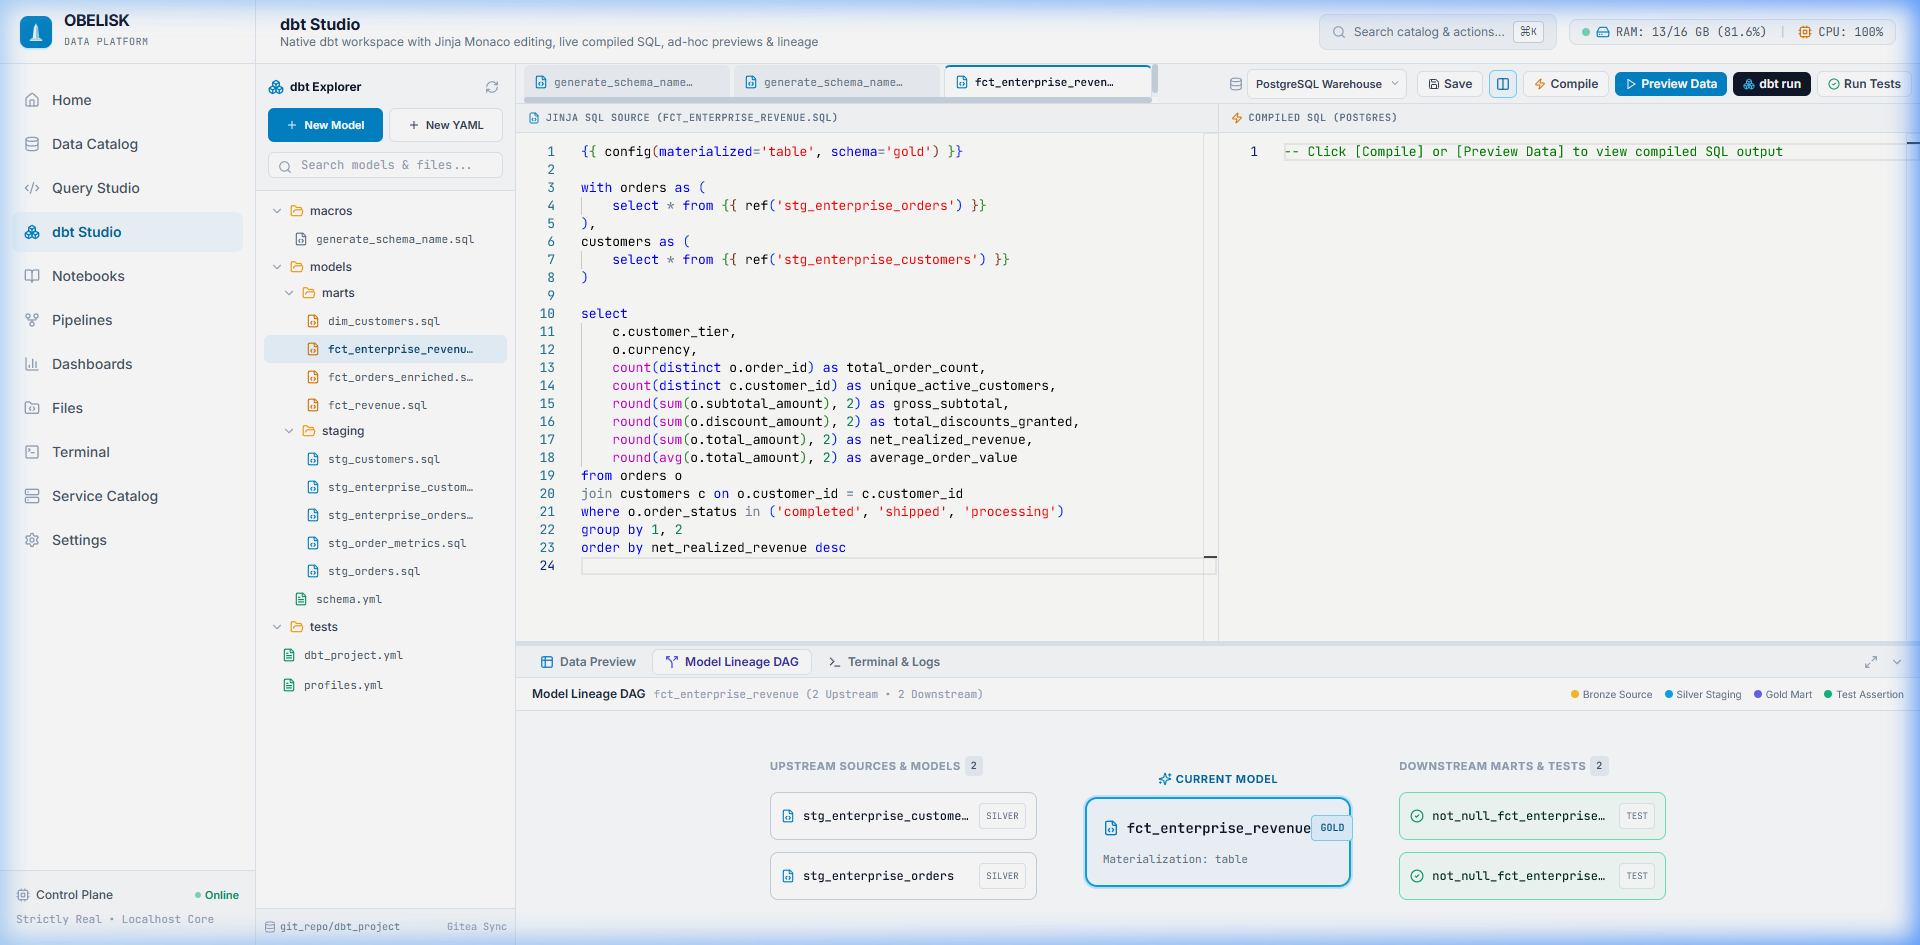
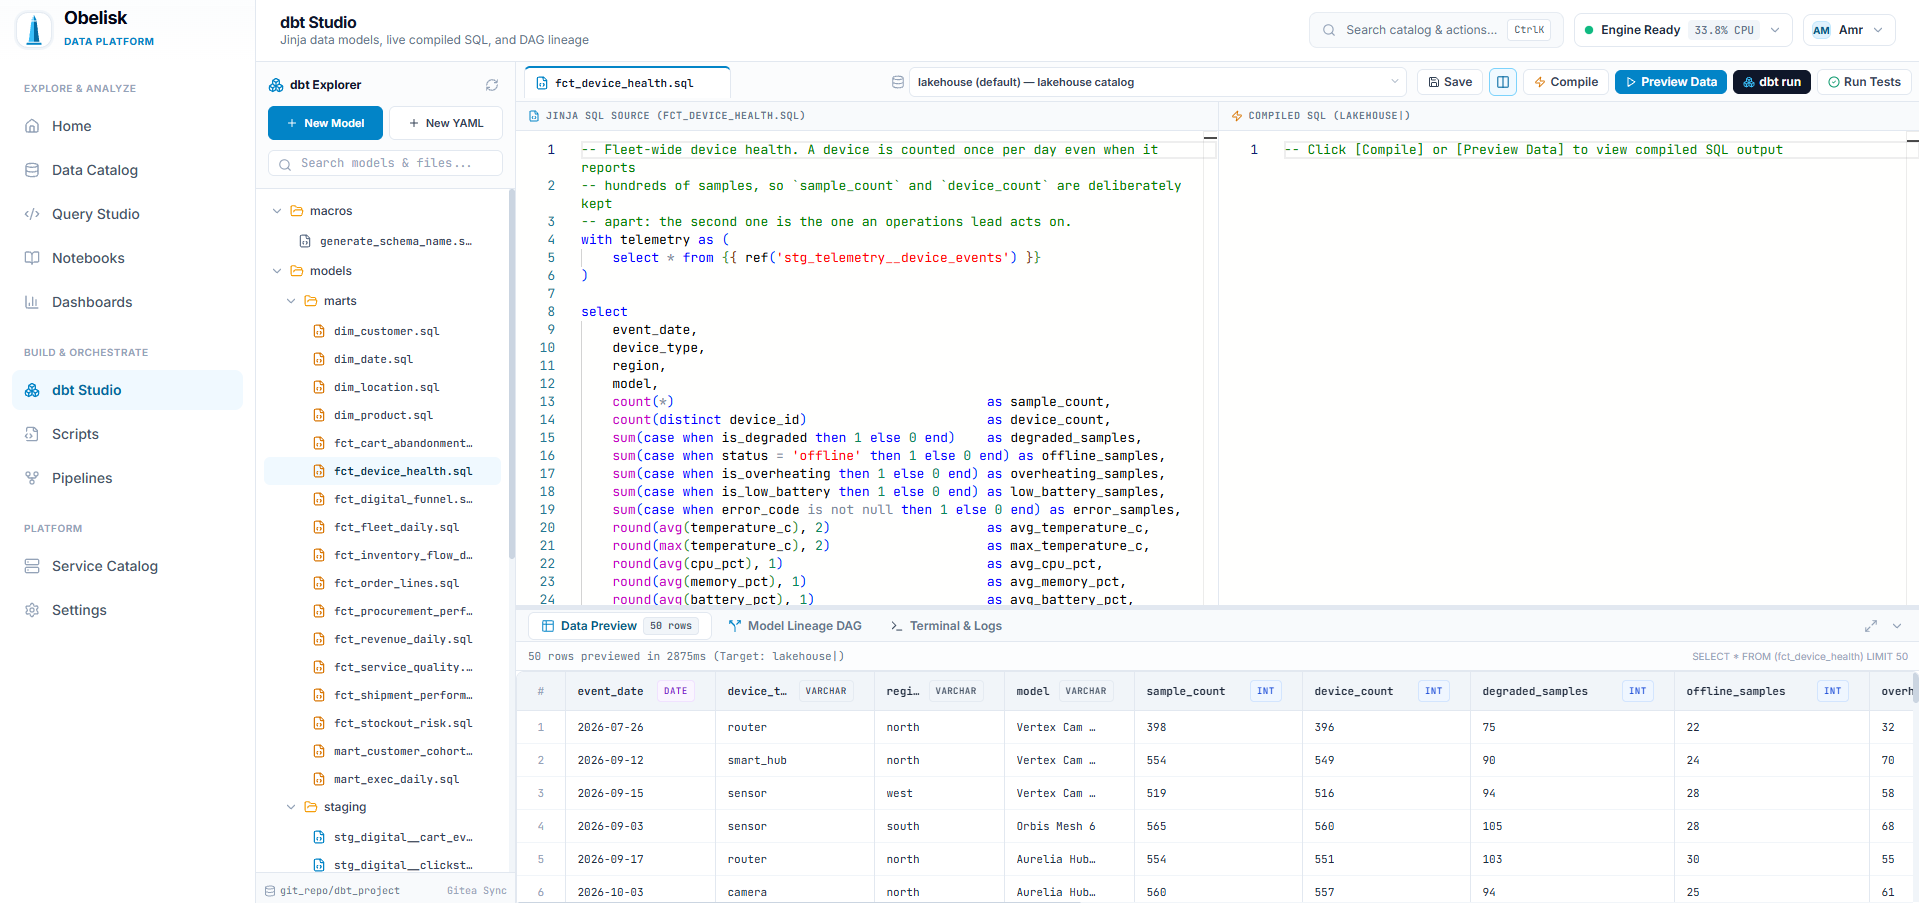
updated readme

Changed region(s): [[0.0, 0.0, 1.0, 1.0], [0.6764, 0.7442, 0.7071, 0.7752], [0.5534, 0.7442, 0.5842, 0.7752]]

diff --git a/README.md b/README.md
@@ -13,7 +13,7 @@ Run a complete modern data stack on a workstation, a single server, or an air-ga
 [![React 18](https://img.shields.io/badge/Frontend-React%2018%20%2B%20Tailwind-61DAFB?logo=react&logoColor=black)](https://react.dev/)
 
 <p align="center">
-  <img src="docs/images/data_catalog.png" alt="Obelisk workspace: the data catalog with lakehouse folders and connected Postgres, MongoDB and Supabase sources, a 50-row Parquet preview, and the full tool rail -- plus the query studio, dbt studio, notebooks, pipelines, service catalog and terminal" width="100%">
+  <img src="docs/images/homepage.png" alt="Obelisk workspace: workspace overview, active pipelines, managed data services, and host resource telemetry" width="100%">
 </p>
 
 </div>
@@ -77,34 +77,54 @@ Postgres on `:5434` and MongoDB on `:27018`.
 tables in as Snappy Parquet with `snapshot`, `incremental` (watermark) or `upsert`
 (primary key) semantics. Attachable sources (Postgres, MySQL, MariaDB, and MongoDB) can also be queried live, uncopied.
 
-**Query Studio.** DuckDB in-process, CSV and Parquet export, a virtualized grid, and
-federated joins in one statement:
+**Query Studio.** DuckDB in-process analytical SQL, CSV and Parquet export, a virtualized grid, and
+cross-source federated joins in a single statement:
 
 ```sql
-SELECT c.region, count(*) AS events, round(sum(e.revenue), 2) AS revenue
-FROM pg_enterprise_warehouse.public.e2e_customers c
-JOIN bronze.e2e_clickstream e ON e.customer_id = c.customer_id
-GROUP BY 1 ORDER BY 1;
+SELECT 
+    c.company_name AS customer,
+    geo.Capital AS capital_city,
+    geo.Continent AS continent,
+    COUNT(o.order_id) AS orders,
+    ROUND(SUM(o.total_amount), 2) AS total_spend
+FROM pg_enterprise_warehouse.crm.customer c
+JOIN lakehouse.raw.sales_order o 
+    ON c.customer_id = o.customer_id
+JOIN read_csv('http://raw.githubusercontent.com/datasets/country-codes/master/data/country-codes.csv') geo
+    ON c.country = geo."ISO3166-1-Alpha-2"
+GROUP BY 1, 2, 3
+ORDER BY total_spend DESC
+LIMIT 5;
 ```
 
 <p align="center">
-  <img src="docs/images/hero_query_studio.png" alt="Query Studio: one federated join across Postgres and the lakehouse returning four regions in 314 ms, with Lakehouse, Supabase, Postgres and MongoDB in the schema explorer" width="100%">
+  <img src="docs/images/query_studio.png" alt="Query Studio: 3-way federated join across PostgreSQL CRM, local Lakehouse Parquet, and live HTTP CSV with schema explorer and results grid" width="100%">
 </p>
 
-**Pipelines.** A canvas with conditional edges; step **outputs** bound downstream
-(`{{steps.build.table}}`); retries with attempt history; SQL that materializes to a table;
-pipelines that run other pipelines with recorded lineage; logs that stream while a step is
-still running; durable run history and re-run-from-step.
+**Pipelines.** A visual DAG canvas with conditional branching; step **outputs** bound downstream
+(`{{steps.build.table}}`); retry policies; sub-pipeline triggers; and streaming step logs.
 
 <p align="center">
-  <img src="docs/images/pipelines.png" alt="Pipeline canvas and step inspector: six steps wired with conditional edges, a gate that retried and passed, and a SQL step materializing its output to a lakehouse table" width="100%">
+  <img src="docs/images/pipelines.png" alt="Pipeline canvas: DAG with conditional branching, quality gate script step, webhook alert on failure, and step inspector" width="100%">
 </p>
 
-**dbt Studio.** Edit, compile, preview and run models in the browser, with lineage. A
-`dbt_run` step can stage a lakehouse folder into the warehouse before it builds.
+**dbt Studio.** Edit, compile, preview, and run models in the browser with DAG lineage and 50-row instant data preview.
 
-**Notebooks.** Reactive Marimo notebooks saved as plain `.py` under `git_repo/notebooks/`,
-one click from any table, and runnable headlessly as a pipeline step.
+<p align="center">
+  <img src="docs/images/dbt_studio.png" alt="dbt Studio: Jinja SQL editor, model DAG lineage, compiled SQL viewer, and instant live data preview" width="100%">
+</p>
+
+**Notebooks.** Reactive Marimo notebooks saved as plain `.py` scripts under `git_repo/notebooks/`, querying the lakehouse via the Obelisk Python SDK (`obelisk.query`), runnable interactively or headlessly in pipelines.
+
+<p align="center">
+  <img src="docs/images/notebook.png" alt="Reactive Marimo Notebook: querying the Obelisk lakehouse and external databases using the Python SDK" width="100%">
+</p>
+
+**Scripts Studio & Quality Gates.** Author and execute standalone Python scripts, data quality gates, and automated alert handlers with live execution telemetry and console streaming.
+
+<p align="center">
+  <img src="docs/images/script_studio.png" alt="Scripts Studio: Python data quality gate execution console with parameter inputs and status checks" width="100%">
+</p>
 
 **Vault.** Variables and credentials encrypted at rest with Fernet and decrypted only in
 memory, at execution time: `obelisk.var("OPENAI_API_KEY")`.
@@ -113,10 +133,8 @@ memory, at execution time: `obelisk.var("OPENAI_API_KEY")`.
 
 ```bash
 cd backend
-python -m pytest tests -q                        # the backend suite, no external services needed
-# From the repo root the config must be named: python -m pytest -c backend/pyproject.toml
-python scripts/verify_pipelines.py               # every step type, every edge condition
-python scripts/e2e/verify_e2e.py --scale small   # full journey, live Postgres + Mongo
+python -m pytest tests -q                        # the backend test suite, no external services needed
+python scripts/preflight_port.py                 # port availability and preflight checks
 ```
 
 The end-to-end script seeds real sources, drives ingest, dbt and federated SQL, forces every
